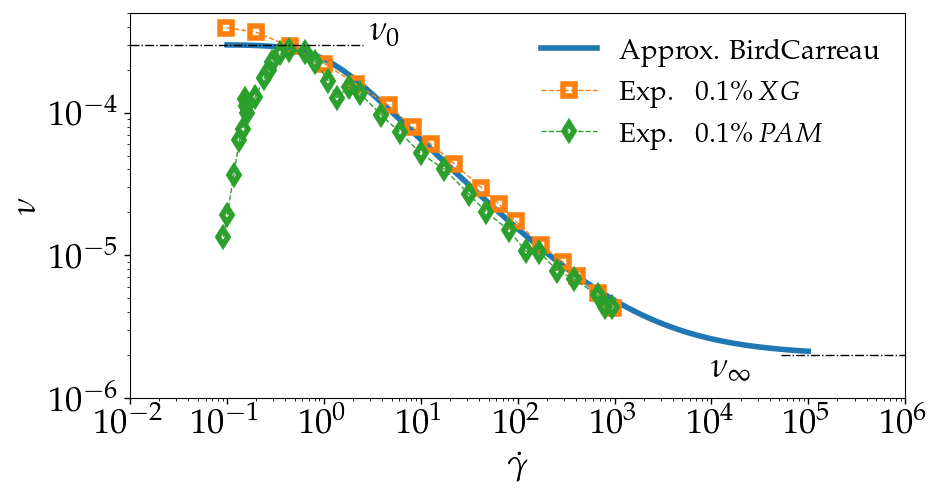
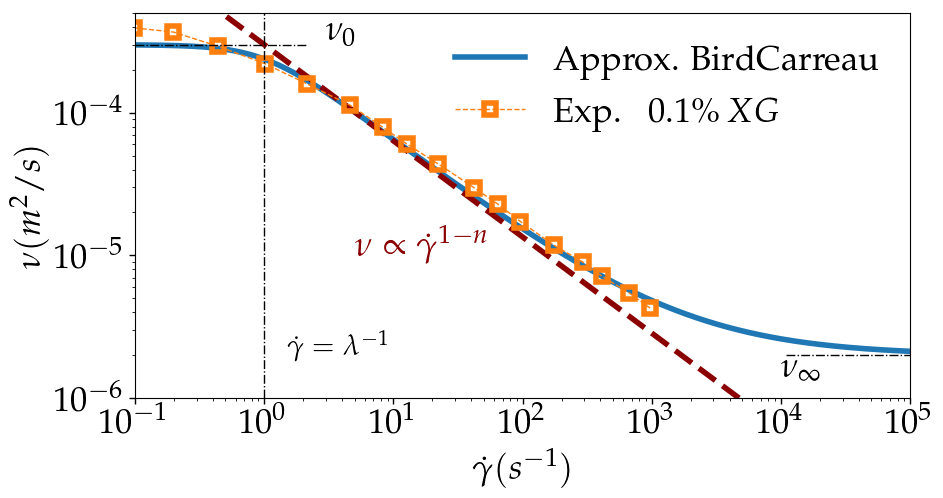
update plot

diff --git a/BirdCarreau_PowerLaw.py b/BirdCarreau_PowerLaw.py
@@ -44,8 +44,8 @@ ax.set_ylim(1e-6,5e-4)
 ax.set_xscale("log")
 ax.set_yscale("log")
 ax.tick_params(axis='both', direction='out', length=4, width=1, labelsize=25)
-ax.set_xlabel(r'$\dot{\gamma}$',fontsize=25)
-ax.set_ylabel(r'$\nu$',fontsize=25)
+ax.set_xlabel(r'$\dot{\gamma} (s^{-1})$',fontsize=25)
+ax.set_ylabel(r'$\nu (m^2/s)$',fontsize=25)
 
 font = {'family': 'serif',
         'color':  'darkred',
